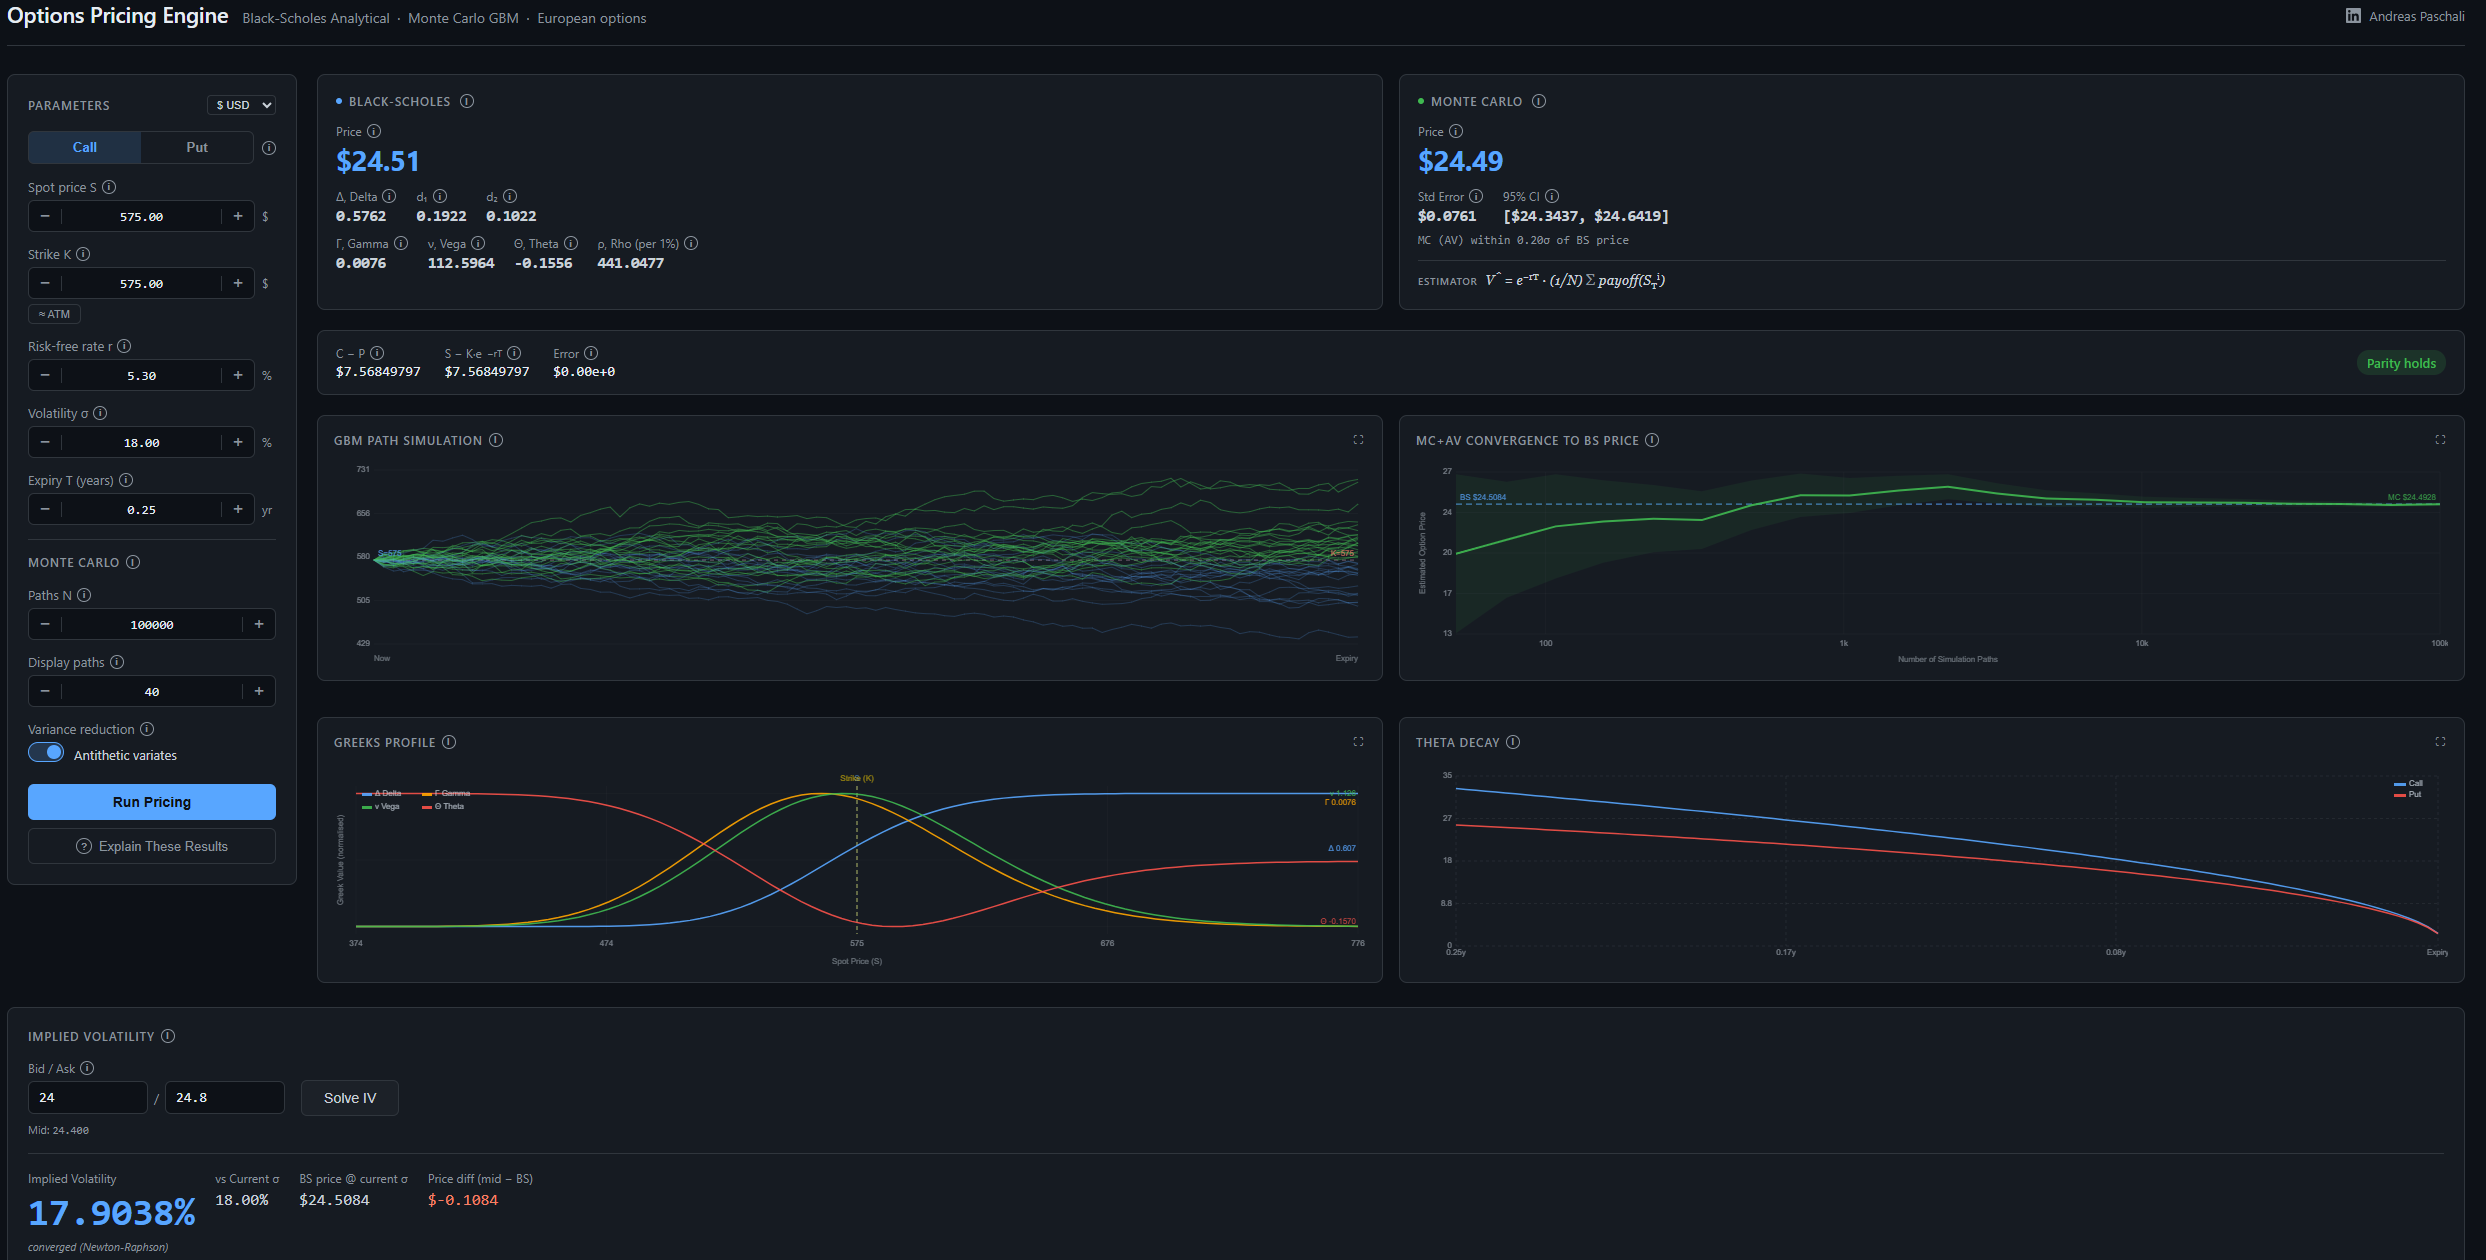
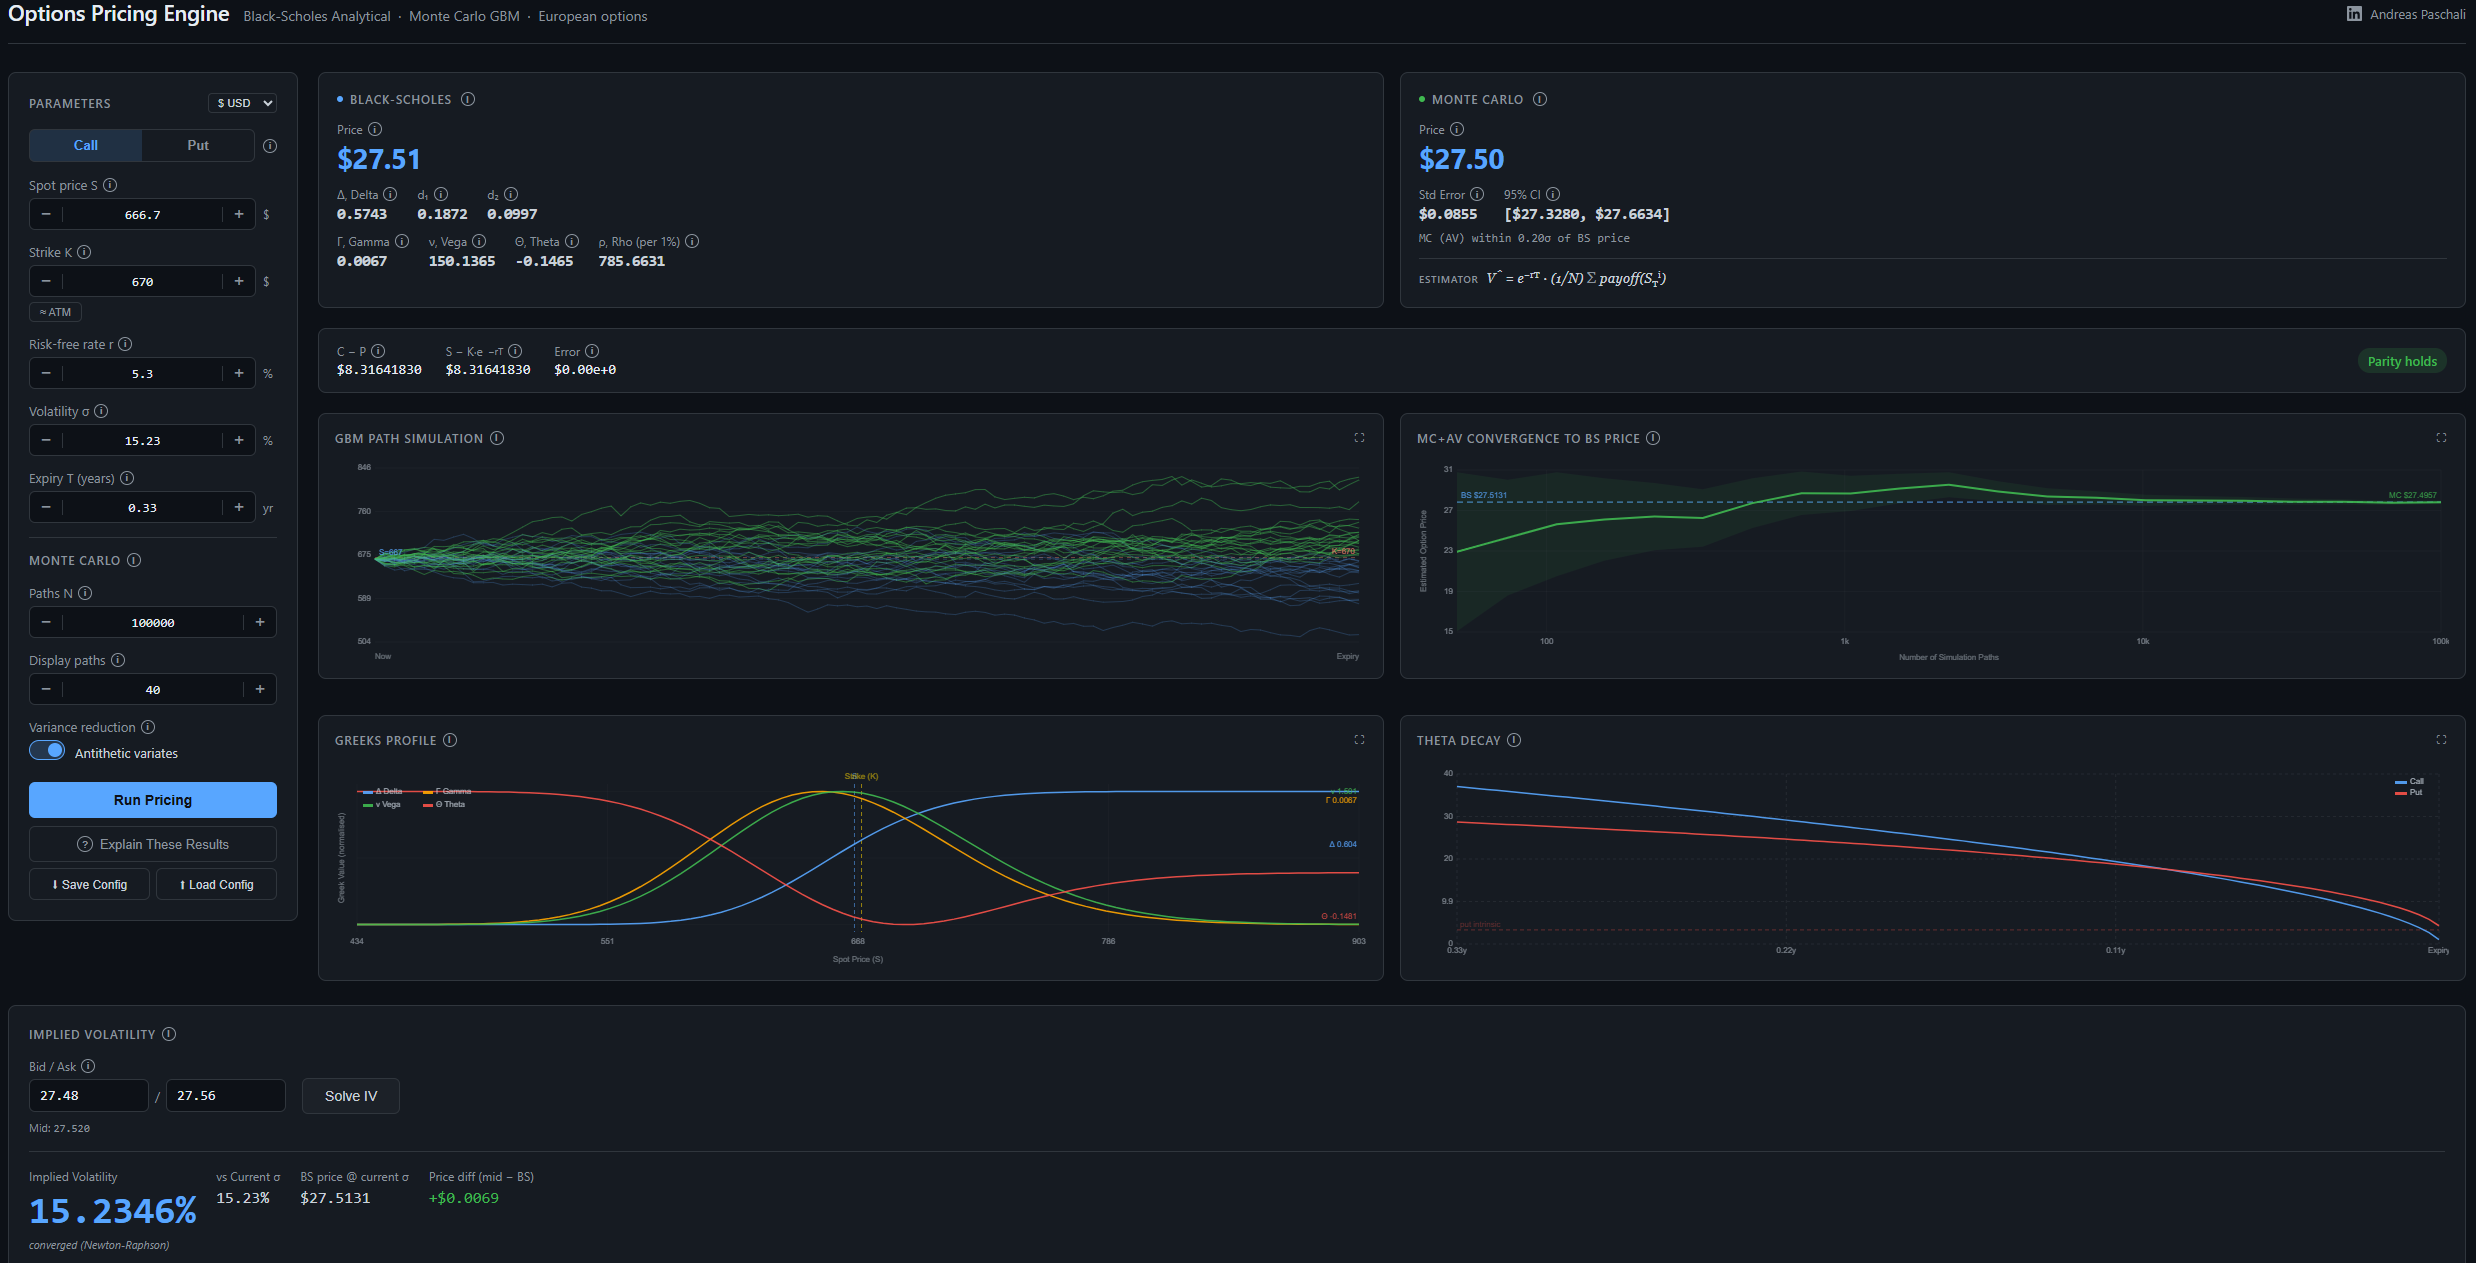
Update GUI snapshots and add created by label

diff --git a/gui.html b/gui.html
@@ -474,7 +474,8 @@
 <header>
   <h1>Options Pricing Engine</h1>
   <span class="subtitle">Black-Scholes Analytical &nbsp;·&nbsp; Monte Carlo GBM &nbsp;·&nbsp; European options</span>
-  <a class="author" href="https://www.linkedin.com/in/andreaspaschali/" target="_blank" rel="noopener">
+  <span style="font-size:12px;color:var(--muted);margin-left:auto;margin-right:6px">Created by:</span>
+  <a class="author" style="margin-left:0" href="https://www.linkedin.com/in/andreaspaschali/" target="_blank" rel="noopener">
     <svg width="15" height="15" viewBox="0 0 24 24" fill="currentColor" aria-hidden="true">
       <path d="M20.45 20.45h-3.554v-5.569c0-1.328-.024-3.037-1.852-3.037-1.853 0-2.136 1.445-2.136 2.939v5.667H9.354V9h3.414v1.561h.047c.476-.9 1.637-1.85 3.37-1.85 3.602 0 4.267 2.37 4.267 5.455v6.284zM5.337 7.433a2.062 2.062 0 0 1-2.063-2.065 2.064 2.064 0 1 1 2.063 2.065zm1.782 13.019H3.555V9h3.564v11.452zM22.225 0H1.771C.792 0 0 .774 0 1.729v20.542C0 23.227.792 24 1.771 24h20.451C23.2 24 24 23.227 24 22.271V1.729C24 .774 23.2 0 22.222 0h.003z"/>
     </svg>
